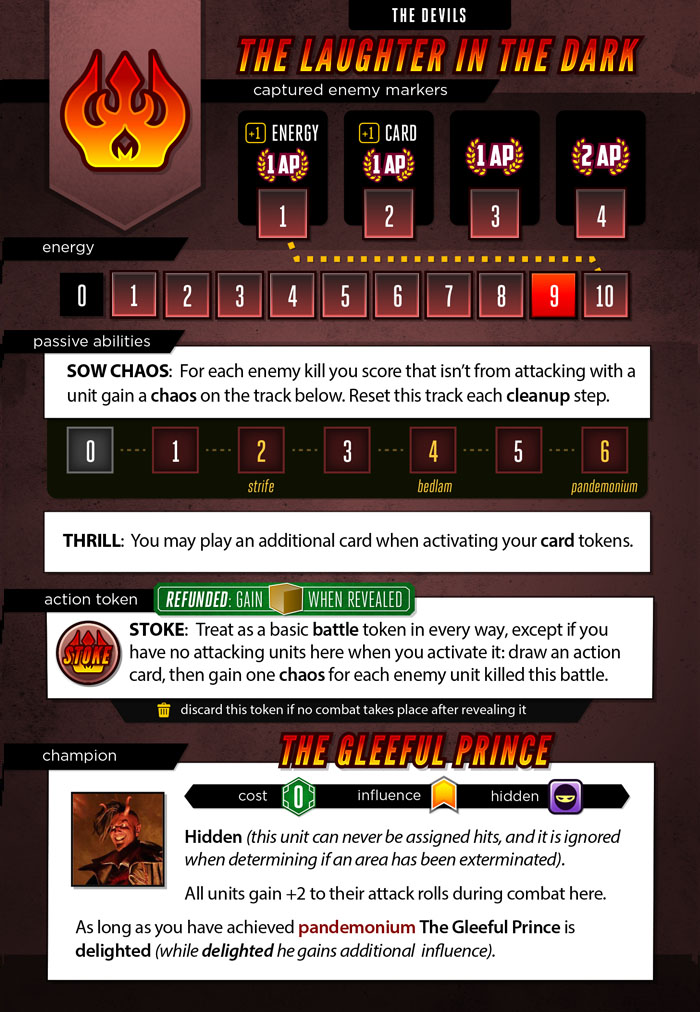
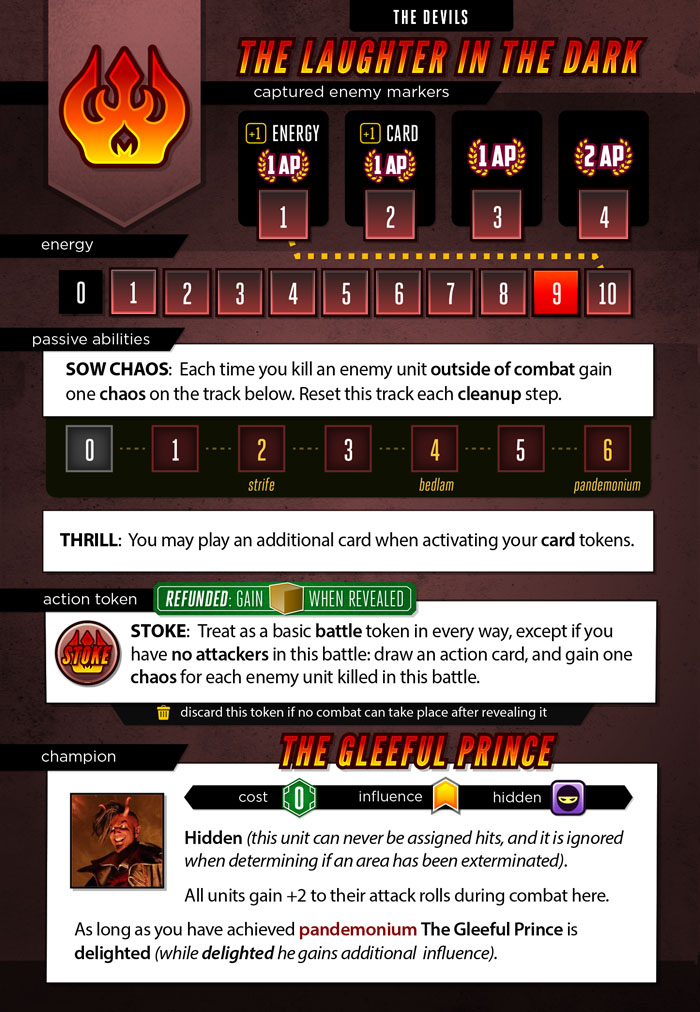
Reword Devils

diff --git a/server/classes/factions/Devils.js b/server/classes/factions/Devils.js
@@ -10,7 +10,7 @@ class Devils extends Faction {
         // triggers
         this.triggers = {
             "onCleanUp" : "resetChaos",
-            "onFactionKillsUnit" : "checkCardChaos",
+            "onFactionKillsUnit" : "checkKillChaos",
         };
 
         // data
@@ -79,9 +79,9 @@ class Devils extends Faction {
         this.data.stokeBattles = upgrade + 1;
     }
 
-    checkCardChaos( unit, options ){
+    checkKillChaos( unit, options ){
         // if the attack was
-        if(options.unit || unit.faction === this.name) return;
+        if(options.inCombat || unit.faction === this.name) return;
         this.raiseChaos();
     }
 
